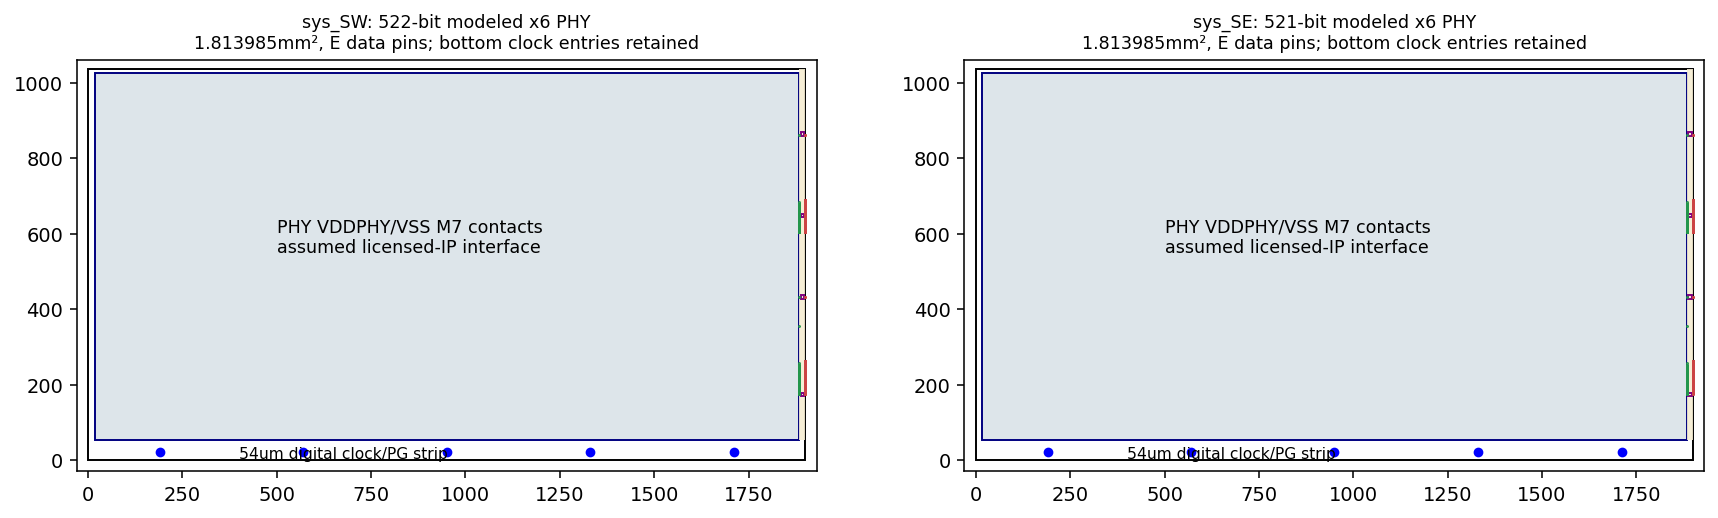
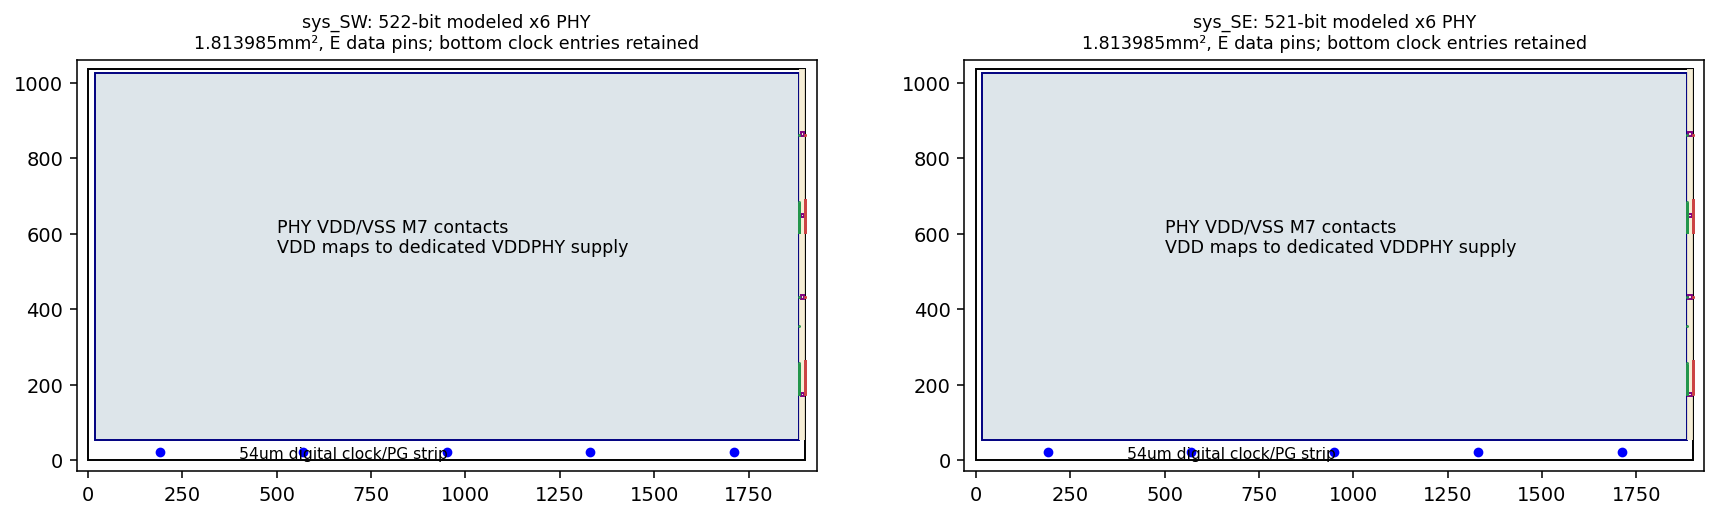
KV PHY PG model: separate independent supply islands and use instance-mapped VDD macro terminals

Changed region(s): [[0.6787, 0.4015, 0.8946, 0.4942], [0.1542, 0.4015, 0.3702, 0.4942]]

diff --git a/results/kv_serdes_pg_event27/gen_model.py b/results/kv_serdes_pg_event27/gen_model.py
@@ -18,7 +18,7 @@ for tn,fw,part,orient in [('kv3_sys_SD',522,'sys_SW','R0'),('kv3_sys_SD_v1',521,
    y=snap(121.944+.144*i if p.name=='tx_flit' else 549.192+.144*i if p.name=='rx_flit' else dict(clk=300.024,rst_n=379.08,tx_up=806.328,tx_v=202.008,rx_v=630.024)[p.name]);xy[b]=[B,y]
    L += [f' PIN {b}',f' DIRECTION {p.direction.upper()} ;',f' USE {"CLOCK" if p.kind=="clock" else "SIGNAL"} ;',' PORT',' LAYER M4 ;',f' RECT {B-.48:.6f} {y-.012:.6f} {B:.6f} {y+.012:.6f} ;',' END',f' END {b}']
  pg={}
- for net,use,off in [('VDDPHY','POWER',2.064),('VSS','GROUND',2.256)]:
+ for net,use,off in [('VDD','POWER',2.064),('VSS','GROUND',2.256)]:
   rr=[];x=off
   while x<B-.5:rr.append([round(x-.06,6),.5,round(x+.06,6),H-.5]);x+=4.32
   pg[net]=rr;L += [f' PIN {net}',' DIRECTION INOUT ;',f' USE {use} ;',' PORT',' LAYER M7 ;']+[f' RECT {a} {b} {c} {d_} ;' for a,b,c,d_ in rr]+[' END',f' END {net}']
@@ -27,8 +27,8 @@ for tn,fw,part,orient in [('kv3_sys_SD',522,'sys_SW','R0'),('kv3_sys_SD_v1',521,
  L+=[' END',f'END {name}','END LIBRARY'];(d/f'{name}.lef').write_text('\n'.join(L)+'\n')
  for c in ('tt','ff'):
   t=copy.deepcopy(S['timing'][c]);t['read_energy_fj']*=fw/1043;t['breakdown']['source_x12_scaled_fdi_width']=fw/1043
-  lib=write_liberty(name,Timing(**t),pins,B*H,None,'MODELED x6 PHY boundary; native core-clock wrapper/FIFO outside IP, not analog implementation');lib=lib.replace('voltage_map (VDD,', 'voltage_map (VDDPHY,').replace('pg_pin (VDD)', 'pg_pin (VDDPHY)').replace('voltage_name : VDD;', 'voltage_name : VDDPHY;').replace('related_power_pin : VDD;', 'related_power_pin : VDDPHY;');(d/f'{name}_{c}.lib').write_text(lib)
+  lib=write_liberty(name,Timing(**t),pins,B*H,None,'MODELED x6 PHY boundary; native core-clock wrapper/FIFO outside IP, not analog implementation');(d/f'{name}_{c}.lib').write_text(lib)
  (d/f'{name}_bb.v').write_text(blackbox_verilog(name,pins,'MODELED physical specialization of unchanged x6 functional provider; alias binding pending'))
- rec=dict(schema='opentallas.kv-serdes-pg-candidate.v1',status='PLAN/PG candidate only; physical-synth alias and interface gate pending',partition_type=tn,part=part,physical_master=name,logical_module='ot_qfd_serdes_112g_x6_phy',parameter_W=fw,origin_type_um=origin,outline_um=[B,H],area_mm2=B*H*1e-6,area_basis='Half existing x12 assumed licensed-IP area, rounded up on ASAP7 macro grid; no vendor GDS',x12_area_mm2=S['footprint']['area_mm2'],digital_keepouts=dict(bottom_strip=[0,0,1900.8,54],east_strip=[1883.52,54,1900.8,1036.8],clock_tap_y_um=21.6),power_w=4.37,power_basis='existing infra_pg SER.MACRO6_POWER proxy, not new measurement',pg_interface=dict(layer='M7',contacts=pg,macro_internal_grid='ASSUMED licensed IP, no analog/internal PG claim'),signal_pins=xy,physical_synth_alias='PENDING: specialize native W522/W521 leaves to unique physical_master; source functional RTL unchanged')
+ rec=dict(schema='opentallas.kv-serdes-pg-candidate.v1',status='PLAN/PG candidate only; physical-synth alias and interface gate pending',partition_type=tn,part=part,physical_master=name,logical_module='ot_qfd_serdes_112g_x6_phy',parameter_W=fw,origin_type_um=origin,outline_um=[B,H],area_mm2=B*H*1e-6,area_basis='Half existing x12 assumed licensed-IP area, rounded up on ASAP7 macro grid; no vendor GDS',x12_area_mm2=S['footprint']['area_mm2'],digital_keepouts=dict(bottom_strip=[0,0,1900.8,54],east_strip=[1883.52,54,1900.8,1036.8],clock_tap_y_um=21.6),power_w=4.37,power_basis='existing infra_pg SER.MACRO6_POWER proxy, not new measurement',pg_interface=dict(layer='M7',power_pin='VDD',domain_net='VDDPHY_'+part[4:],contacts=pg,macro_internal_grid='ASSUMED licensed IP, no analog/internal PG claim'),signal_pins=xy,physical_synth_alias='PENDING: specialize native W522/W521 leaves to unique physical_master; source functional RTL unchanged')
  (d/f'{name}.json').write_text(json.dumps(rec,indent=1)+'\n');rows.append(rec)
 (O/'phy_footprints.json').write_text(json.dumps(rows,indent=1)+'\n');print('PG_MODEL_CANDIDATES',[(r['part'],r['area_mm2'],len(r['signal_pins'])) for r in rows])

diff --git a/results/kv_serdes_pg_event27/render_pg.py b/results/kv_serdes_pg_event27/render_pg.py
@@ -10,8 +10,8 @@ for ax,r in zip(axs,rr):
  for b,i,d,bx,by,f in GP.type_pins(P,tn):ax.plot(bx,by,'.',color='#c44',ms=1)
  # Show the planned local clock/reset corridor; no new die clock ports.
  for py in (172.8,432,648,864):ax.add_patch(plt.Rectangle((1887.84,py-4.32),8.64,8.64,fill=False,ec='purple'))
- ax.set_aspect('equal');ax.set_xlim(-30,1930);ax.set_ylim(-30,1060);ax.set_title(f'{r["part"]}: {r["parameter_W"]}-bit modeled x6 PHY\n1.813985mm², E data pins; bottom clock entries retained',fontsize=9);ax.text(500,550,'PHY VDDPHY/VSS M7 contacts\nassumed licensed-IP interface',fontsize=9);ax.text(400,5,'54um digital clock/PG strip',fontsize=8)
+ ax.set_aspect('equal');ax.set_xlim(-30,1930);ax.set_ylim(-30,1060);ax.set_title(f'{r["part"]}: {r["parameter_W"]}-bit modeled x6 PHY\n1.813985mm², E data pins; bottom clock entries retained',fontsize=9);ax.text(500,550,'PHY VDD/VSS M7 contacts\nVDD maps to dedicated VDDPHY supply',fontsize=9);ax.text(400,5,'54um digital clock/PG strip',fontsize=8)
  p=r['part'];a=P.to_die(p,(x,y));b=P.to_die(p,(x+w,y+h));rect=[min(a[0],b[0]),min(a[1],b[1]),max(a[0],b[0]),max(a[1],b[1])];io='io_'+p+'_serdes';grid=[]
- for row in P.die['pg']['grid']:q=dict(row);q['nets']=['VDDPHY','VSS'];grid.append(q)
- doms.append(dict(name='phy_'+p+'_serdes',nets=['VDDPHY','VSS'],io=[io],rect_um=rect,grid=grid,bumps=dict(lattice_io_ref=io,site_pitch_um=45.0,pg_share=.45,effective_pg_pitch_um=67.082,source='existing infra_pg.pg_bumps; keep original IO-window lattice points, assign only inside leaf to VDDPHY'),power_w=4.37,leaf=dict(instance='serdes',logical_module=r['logical_module'],physical_master=r['physical_master'],parameter_W=r['parameter_W'],origin_type_um=r['origin_type_um'],outline_um=r['outline_um'],pg_access_layer='M7'),status='PENDING physical-synth master alias + macro placement/PG import; no full-IO domain relabel'))
+ for row in P.die['pg']['grid']:q=dict(row);q['nets']=['VDDPHY_'+p[4:],'VSS'];grid.append(q)
+ doms.append(dict(name='phy_'+p+'_serdes',nets=['VDDPHY_'+p[4:],'VSS'],io=[io],rect_um=rect,grid=grid,bumps=dict(lattice_io_ref=io,site_pitch_um=45.0,pg_share=.45,effective_pg_pitch_um=67.082,source='existing infra_pg.pg_bumps; keep original IO-window lattice points, assign only inside leaf to VDDPHY'),power_w=4.37,leaf=dict(instance='serdes',logical_module=r['logical_module'],physical_master=r['physical_master'],parameter_W=r['parameter_W'],origin_type_um=r['origin_type_um'],outline_um=r['outline_um'],pg_access_layer='M7'),status='PENDING physical-synth master alias + macro placement/PG import; no full-IO domain relabel'))
 fig.savefig(O/'phy_floorplan.png',dpi=140,bbox_inches='tight');(O/'pg_domains_candidate.json').write_text(json.dumps(dict(source='KV R26 + pending event; additions to existing UCIe domain only',domains=doms,scope='candidate input, no source plan PG mutation before truthful leaf integration'),indent=1)+'\n');print(json.dumps([dict(part=r['io'],rect=r['rect_um']) for r in doms]))

diff --git a/results/kv_serdes_pg_event27/make_pg_windows.py b/results/kv_serdes_pg_event27/make_pg_windows.py
@@ -14,8 +14,8 @@ model_raw=copy.deepcopy(P.raw);model_raw['die']['io']=model_io;Q=S.Plan(model_ra
 # The existing domain vehicle uses load_model for footprints/density and D.io_windows(P) for the unchanged bump field.
 I.load_model=lambda unused,plandir,*a,**k:load(Q,plandir,*a,**k)
 pg=dict(grid=P.die['pg']['grid'],phy_w_per_macro=4.37,core_w_mm2=.15,bump_pitch_um=150)
-for part,box in [('sys_SW',[0,25920,2160,27043.2]),('sys_SE',[8916.48,25920,11076.48,27043.2])]:
- out=R/'phy_pg_r2'/part;win=dict(window=part,window_um=box);m=IPD.make(P,R/'event/pd',pg,win,out,8.64)
+for part,box in [('sys_SW',[0,26006.4,2160,27043.2]),('sys_SE',[8916.48,26006.4,11076.48,27043.2])]:
+ out=R/'phy_pg_r3'/part;win=dict(window=part,window_um=box);m=IPD.make(P,R/'event/pd',pg,win,out,8.64)
  m['assumptions']=dict(core_glue_w_mm2=.15,phy_w=4.37,footprint='half existing x12 area rounded above, explicit model, not vendorGDS',contacts='M7 boundary contact surrogate with original micro-bump sites; true leaf/kit alias remains pending');(out/'domains.json').write_text(json.dumps(m,indent=1)+'\n')
  print(part,'blocks',m['load_blocks'],'watts',m['power_w'],'bumps',len(m['bumps']),flush=True)
 print('PG_WINDOWS_READY')

diff --git a/results/kv_serdes_pg_event27/review.md b/results/kv_serdes_pg_event27/review.md
@@ -1,1 +1,2 @@
 Review-before-PG: phy_floorplan.png and PG-window source map viewed. PASS-COND for PG experiment: native FDI buses stay short at the E face, all existing bottom clock entries stay in the 54um strip, explicit clock/reset bays stay outside the PHY; macro internal PG is modeled M7 access, analog GDS not claimed. Initial origin x8.64 failed actual PDN-0185: the leftover 8.64um core strip cannot fit 4.8um strap pair plus 4.32um phase. Structural revision: origin x17.28 gives 17.28um left/right supply strips, footprint unchanged. Initial failure dirs retained at intel1 codex-kv-clock-1027/phy_pg/sys_{SW,SE}; revised experiment uses phy_pg_r2. No native macro alias/PG sign-off claim until its gates pass.
+R2 connectivity FAIL was a two-island diagnostic issue: window included a separate HBM PHY slice below the system row on the same VDDPHY net; 242 main-PHY loads were unreachable from the other domain, while that smaller domain remained connected. R3 scopes the window to the system row so each independent PHY supply is tested separately; the actual plan candidate names SW/SE supplies separately. Macro power terminal stays the industry-standard VDD and maps by macro instance to VDDPHY_SW/SE, preserving digital VDD and the existing shared generator.
